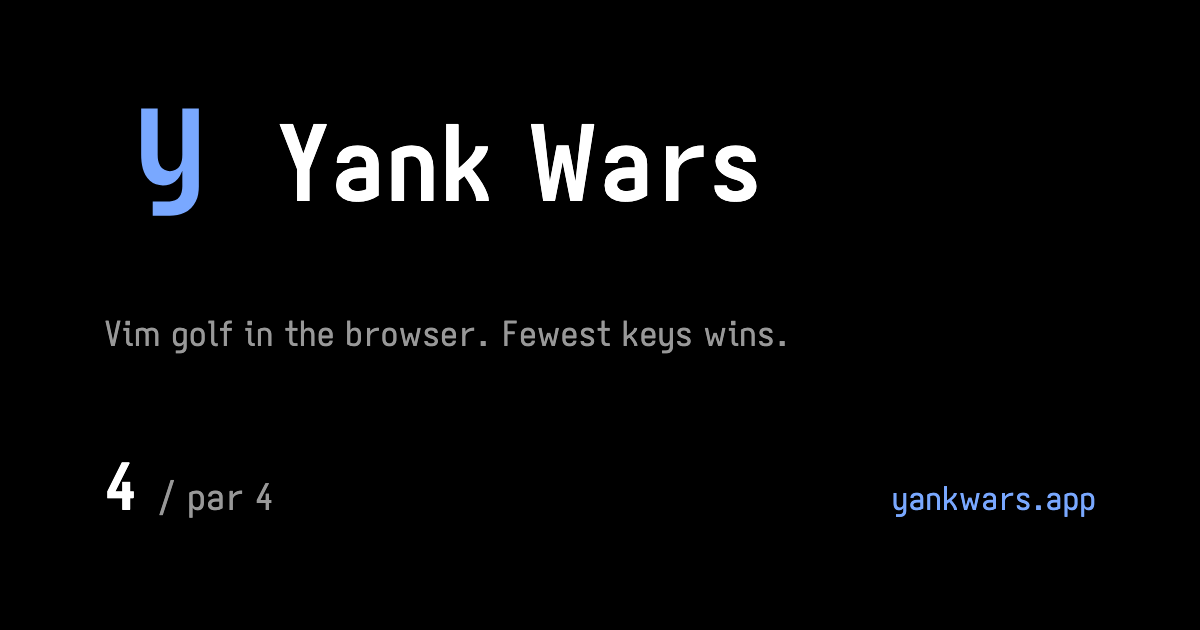
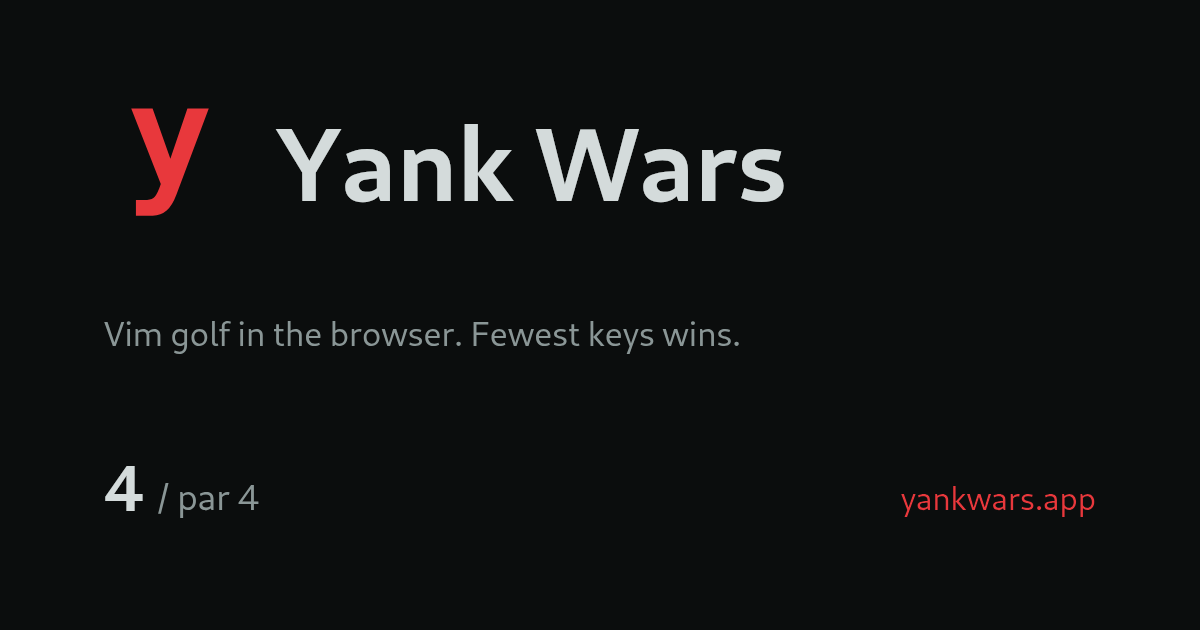
fsociety palette, dark only, Cantarell and DejaVu Sans Mono; typ 1.1.8, dajaj 1.2.8, lsel-station 0.5.8, yank-wars 1.3.8, sammysul 0.1.5, kit 0.5.7

diff --git a/kit/src/lib/check.test.ts b/kit/src/lib/check.test.ts
@@ -54,7 +54,7 @@ test("names each hand-rolled piece and design break, by file and line", async ()
     "src/web/App.svelte:4: colors come from tokens.css variables",
     "src/web/App.svelte:4: no shadows, gradients or blur (DESIGN.md)",
     "src/web/App.svelte:4: nothing is rounded (DESIGN.md)",
-    "src/web/App.svelte:5: Aporetic only, through var(--font) or var(--font-mono)",
+    "src/web/App.svelte:5: Cantarell and DejaVu Sans Mono only, through var(--font) or var(--font-mono)",
     "src/web/lib/prefs.ts:1: persisted() keeps a screen's choices",
     "src/web/lib/when.ts:1: clock() and when() format times",
     'src/web/lsel/tokens.css:1: a copy of tokens.css: import "@sammysul/lsel/tokens.css"',

diff --git a/kit/src/lib/testing/index.ts b/kit/src/lib/testing/index.ts
@@ -80,8 +80,7 @@ export async function lselLook(page: Page): Promise<{ background: string; font: 
   return page.evaluate(() => ({
     background: getComputedStyle(document.body).backgroundColor,
     font:
-      document.fonts.check('14px "Aporetic Sans"') &&
-      document.fonts.check('14px "Aporetic Sans Mono"'),
+      document.fonts.check('14px "Cantarell"') && document.fonts.check('14px "DejaVu Sans Mono"'),
   }));
 }
 

diff --git a/apps/typ/e2e/app.test.ts b/apps/typ/e2e/app.test.ts
@@ -14,7 +14,7 @@ import type { Browser, BrowserContext, Page } from "playwright-core";
 
 const url = serveBuilt(join(import.meta.dir, "../dist"));
 const FONT = readFileSync(
-  Bun.resolveSync("@sammysul/lsel/assets/aporetic-sans-mono-bold.woff2", import.meta.dir),
+  Bun.resolveSync("@sammysul/lsel/assets/dejavu-sans-mono-bold.woff2", import.meta.dir),
 );
 
 const fontFile = (name: string, buffer: Buffer = FONT) => ({

diff --git a/kit/src/lib/check.ts b/kit/src/lib/check.ts
@@ -55,7 +55,7 @@ const RULES: readonly Rule[] = [
   {
     in: STYLE,
     pattern: /font-family\s*:(?!\s*var\(--font(?:-mono)?\)|\s*inherit)/,
-    message: "Aporetic only, through var(--font) or var(--font-mono)",
+    message: "Cantarell and DejaVu Sans Mono only, through var(--font) or var(--font-mono)",
   },
   {
     in: MARKUP,

diff --git a/theme/contrast.test.ts b/theme/contrast.test.ts
@@ -17,7 +17,6 @@ function luminance(hex: string): number {
 const ALLOWED: Record<string, string[]> = {
   text: ["base", "raise", "surface"],
   accent: ["base"],
-  // Vivendi's red is 4.42:1 on surface.
   error: ["base", "raise"],
   warning: ["base", "raise", "surface"],
   select: ["base", "raise", "surface"],

diff --git a/DESIGN.md b/DESIGN.md
@@ -1,6 +1,6 @@
 # Design
 
-One look for everything: the terminal's colors. Light and dark, square, quiet.
+One look for everything: the terminal's colors. Mr. Robot's Kali: dark, square, quiet.
 The values live in `theme/` and reach every app as `tokens.css` in
 `@sammysul/lsel`; use the variables, never the hex values. The package's
 components (`Page`, `Tabs`, `List`, `Status`, `Empty`, `Action`,
@@ -8,11 +8,10 @@ components (`Page`, `Tabs`, `List`, `Status`, `Empty`, `Action`,
 
 ## Palette
 
-Modus Operandi Tinted (light) and Modus Vivendi (dark), the same pair the
-terminal, nvim and the desktop use (`squares` imports them from here). The
-system's light/dark setting picks one: `tokens.css` swaps every variable, so
-nothing in an app names a mode. A light palette inverts the ramp: `--raise`
-through `--overlay` step darker than `--base`.
+fsociety: near-black with a cold grade, grey-white text and one red accent,
+the same palette the terminal, nvim and the desktop use (`squares` imports it
+from here). It fills both of `scheme`'s slots, so the system's light/dark
+setting changes nothing; nothing in an app names a mode.
 
 | Variable                            | Use                                                                                                                                                         |
 | ----------------------------------- | ----------------------------------------------------------------------------------------------------------------------------------------------------------- |
@@ -36,10 +35,11 @@ the interface around it still uses these variables.
 
 ## Type
 
-- **Aporetic Sans for the interface, Aporetic Sans Mono for code**: `--font`
-  and `--font-mono`, Regular (400) and Bold (700) only, self-hosted and
-  subset to the Latin, punctuation and symbol blocks (`tokens.css` loads the
-  `.woff2` files beside it; the OFL license ships with them). Mono covers
+- **Cantarell for the interface, DejaVu Sans Mono for code** (Kali's GNOME
+  pair): `--font` and `--font-mono`, Regular (400) and Bold (700) only,
+  self-hosted and subset to the Latin, punctuation and symbol blocks
+  (`tokens.css` loads the `.woff2` files beside it; their licenses ship with
+  them). Mono covers
   `pre`, `code`, `kbd` and an app's code-editing surface. No other family,
   except a pixel display face for a game's title.
 - Sizes: `--text-xs` 12, `--text-sm` 14 (body), `--text-md` 16, `--text-lg`
@@ -113,7 +113,7 @@ the user is `role="alert"`.
 
 ## Icon
 
-An app's favicon is its first letter, lowercase, in Aporetic Sans Mono Bold,
+An app's favicon is its first letter, lowercase, in DejaVu Sans Mono Bold,
 in the dark palette's `--accent` on `--base`, square: `nix run lsel#favicon -- <letter> >
 favicon.svg` (the letter is a path, so no font is needed to show it).
 
